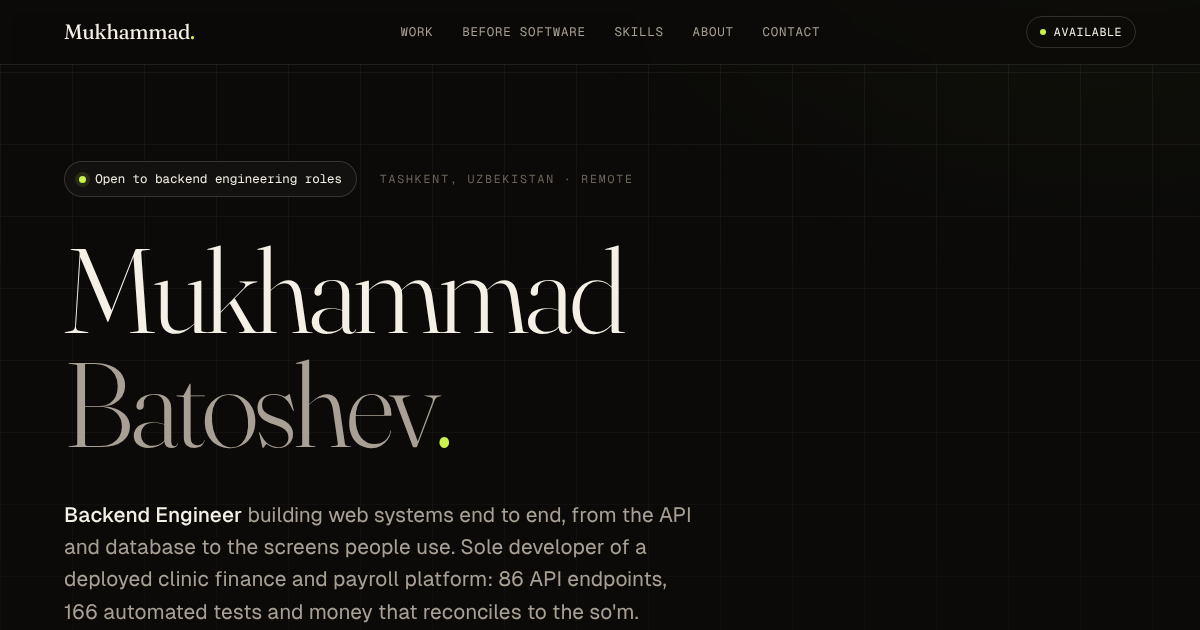
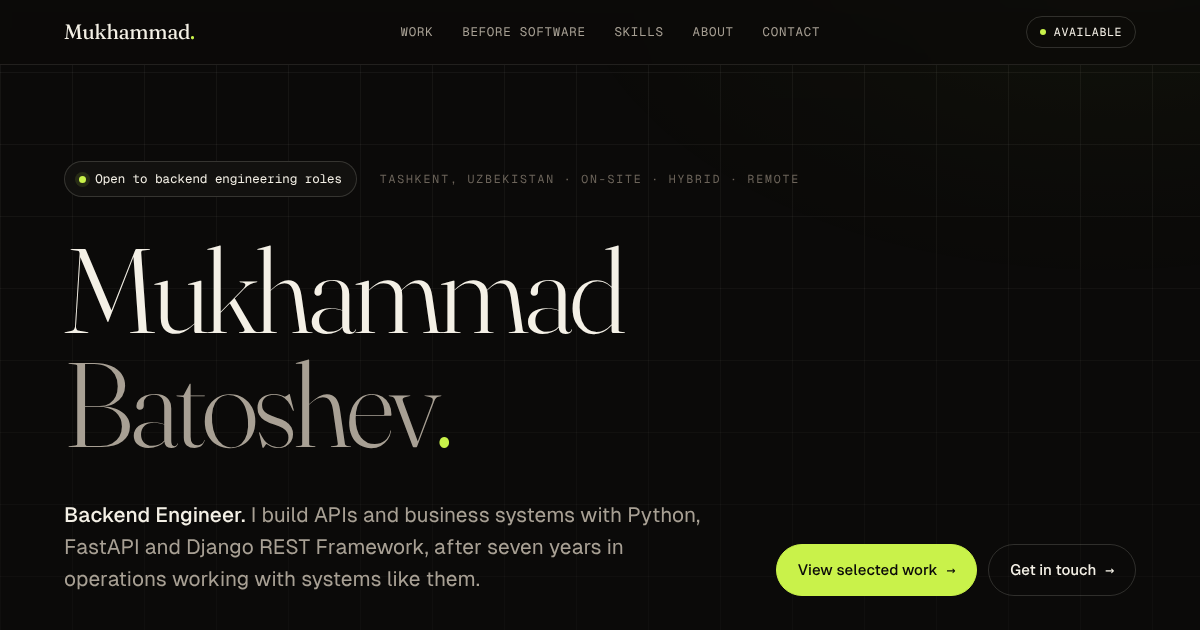
Restore the original hero line; drop the SQLAlchemy version from the resume

diff --git a/index.html b/index.html
@@ -46,7 +46,7 @@
       </div>
       <h1>Mukhammad<br><span class="second">Batoshev</span><span class="stop">.</span></h1>
       <div class="hero__row">
-        <p class="hero__lead"><strong>Backend Engineer</strong> building web systems end to end, from the API and database to the screens people use. Sole developer of a deployed clinic finance and payroll platform: 86 API endpoints, 166 automated tests and money that reconciles to the so'm. Before that, 7+ years in operations, dispatching 2,150+ vehicles and $3M+ in revenue, so I build software the way operations teams actually work.</p>
+        <p class="hero__lead"><strong>Backend Engineer.</strong> I build APIs and business systems with Python, FastAPI and Django REST Framework, after seven years in operations working with systems like them.</p>
         <div class="hero__actions">
           <a class="btn btn--accent" href="#work">View selected work <span class="arrow" aria-hidden="true">→</span></a>
           <a class="btn" href="#contact">Get in touch <span class="arrow" aria-hidden="true">→</span></a>
